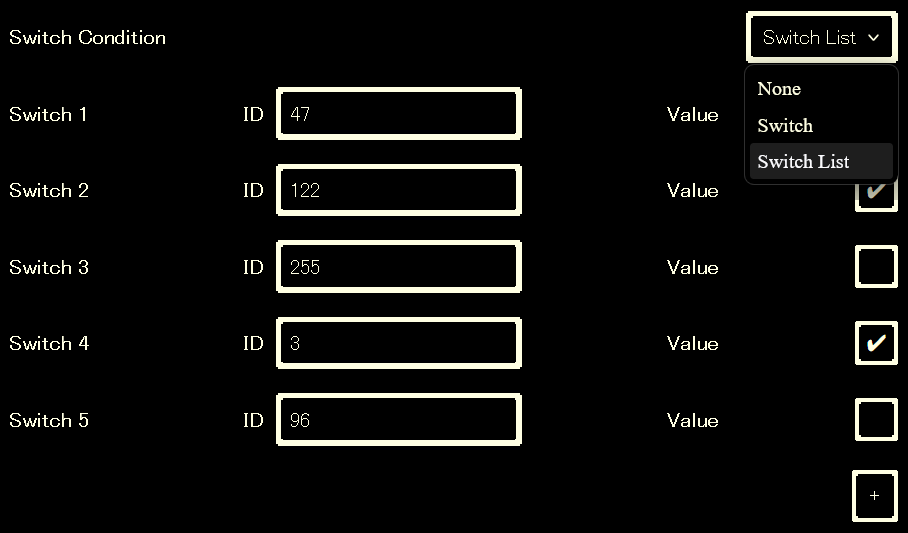
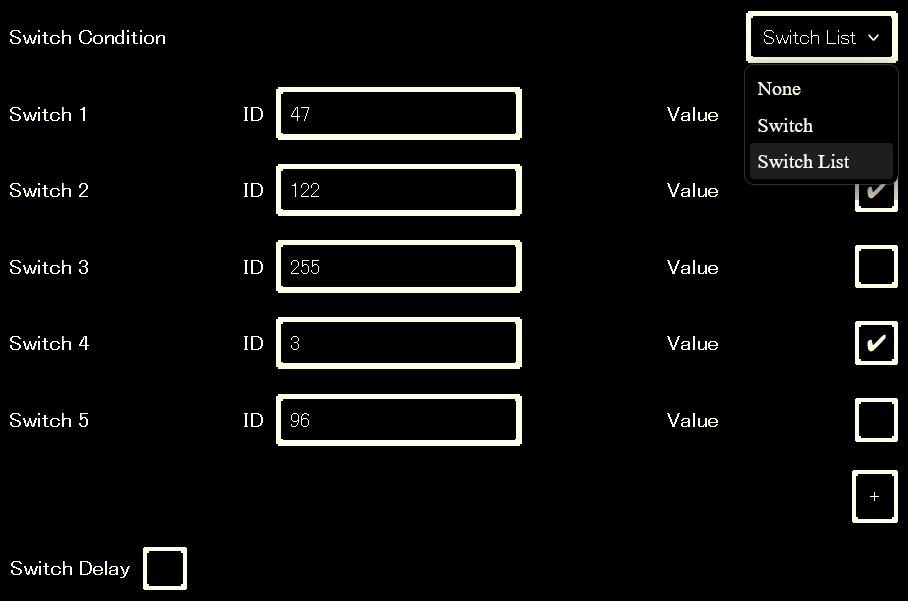
Fix Switch Delay and Variable Delay being missing

diff --git a/info/badge_tools.md b/info/badge_tools.md
@@ -140,7 +140,7 @@ This section will be empty if the Requirement Type was set to None (Mod Granted)
 - Switch List - Track several switches at once. This feature is more prone to not triggering badges, so avoid using it if possible.
     - Switch ID - ID of the Switch to track.
     - Value - Value of the Switch. Untick means the switch will be tracked as being OFF, while tick means the switch will be tracked as being ON.
-    - Switch Delay (only present while tracking a single switch) - If set, the switch check will only occur if the switch was edited while the condition was tracked.
+    - Switch Delay - If set, the switch check will only occur if the switch was edited while the condition was tracked.
     - Additional Switch(es) - Add more switches to the trigger by clicking on the + button.
 
 ⑧ Variable Condition - Ties the condition to a variable. There are several options available with this parameter.
